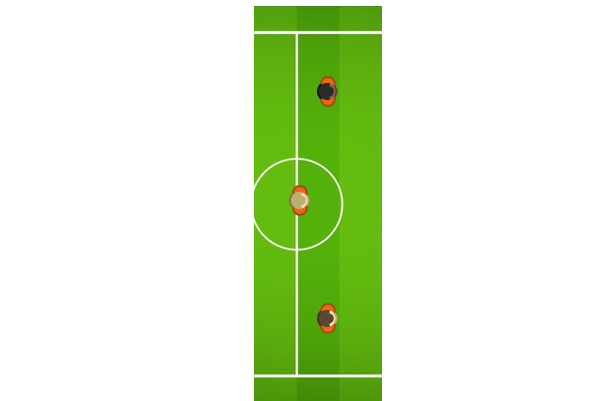
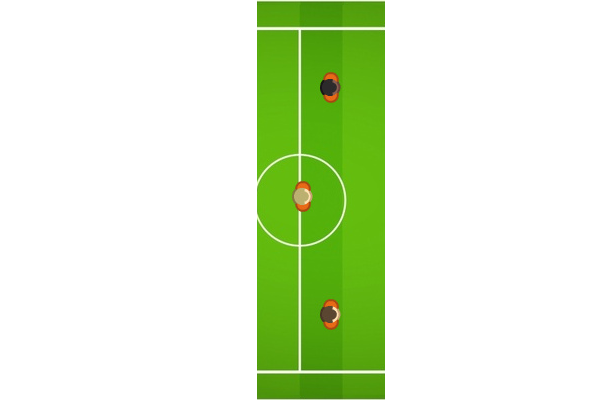
Full Image generates properly and corrected midfilders image

Changed region(s): [[0.42, 0.0, 0.66, 1.0]]

diff --git a/final.js b/final.js
@@ -58,6 +58,7 @@ bot.onText(/\/sendGoalkeeperPic/, (msg) => {
     printGoalkeeperNameOnImage("Jose Luis");
     bot.sendPhoto(msg.chat.id, goalkeeperImagetoPrint);
 });
+
 bot.onText(/\/printlineup/, (msg) => {
     //for()  each to print the line up
     // alineacionWithNames.forEach(element => {
@@ -142,6 +143,7 @@ Promise.all(createImage).then(function(data){
 }).then(function(data){
     data[0].composite(data[1],0,0);
     data[0].composite(data[2],0,0);
+    data[0].composite(data[3],0,0);
     data[0].write("Images/fullImage.png");
 });
 }
